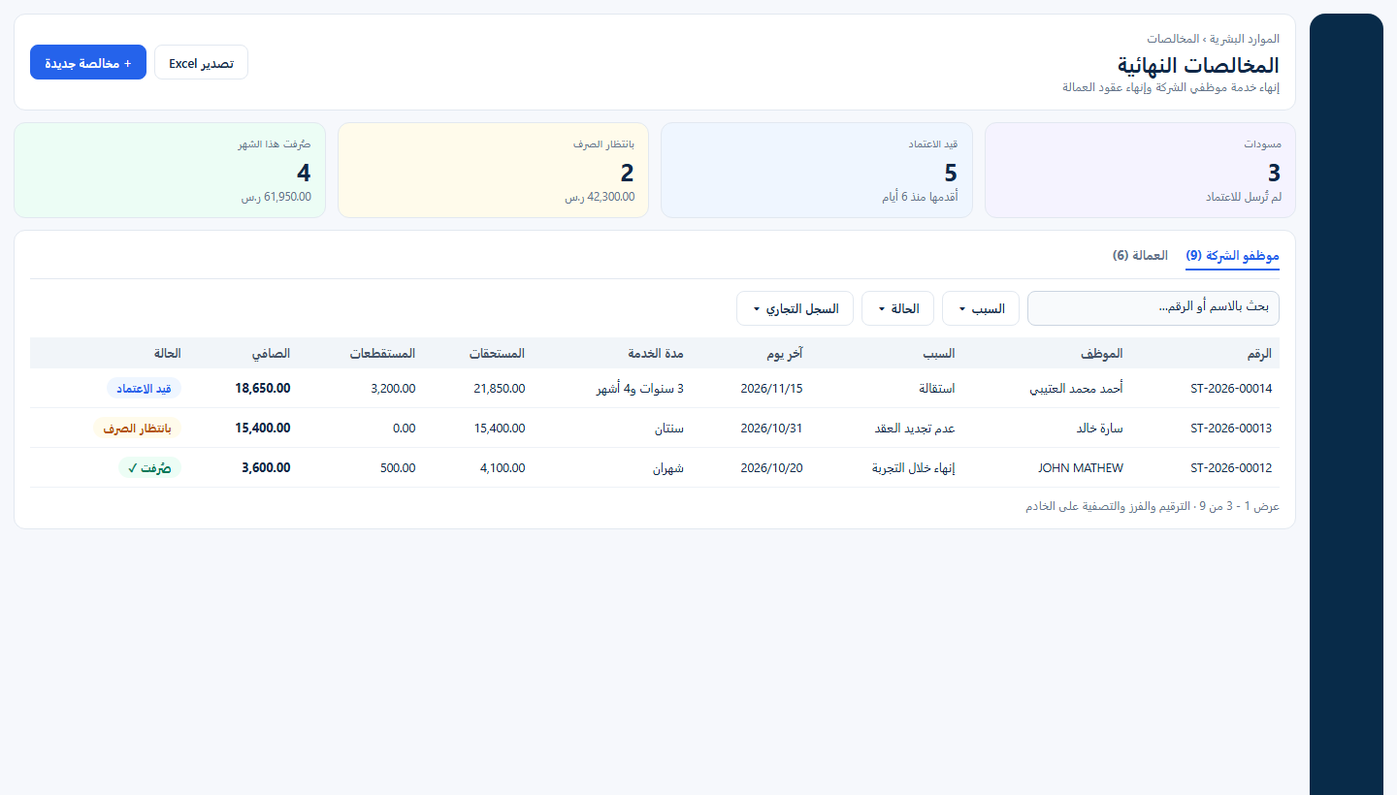
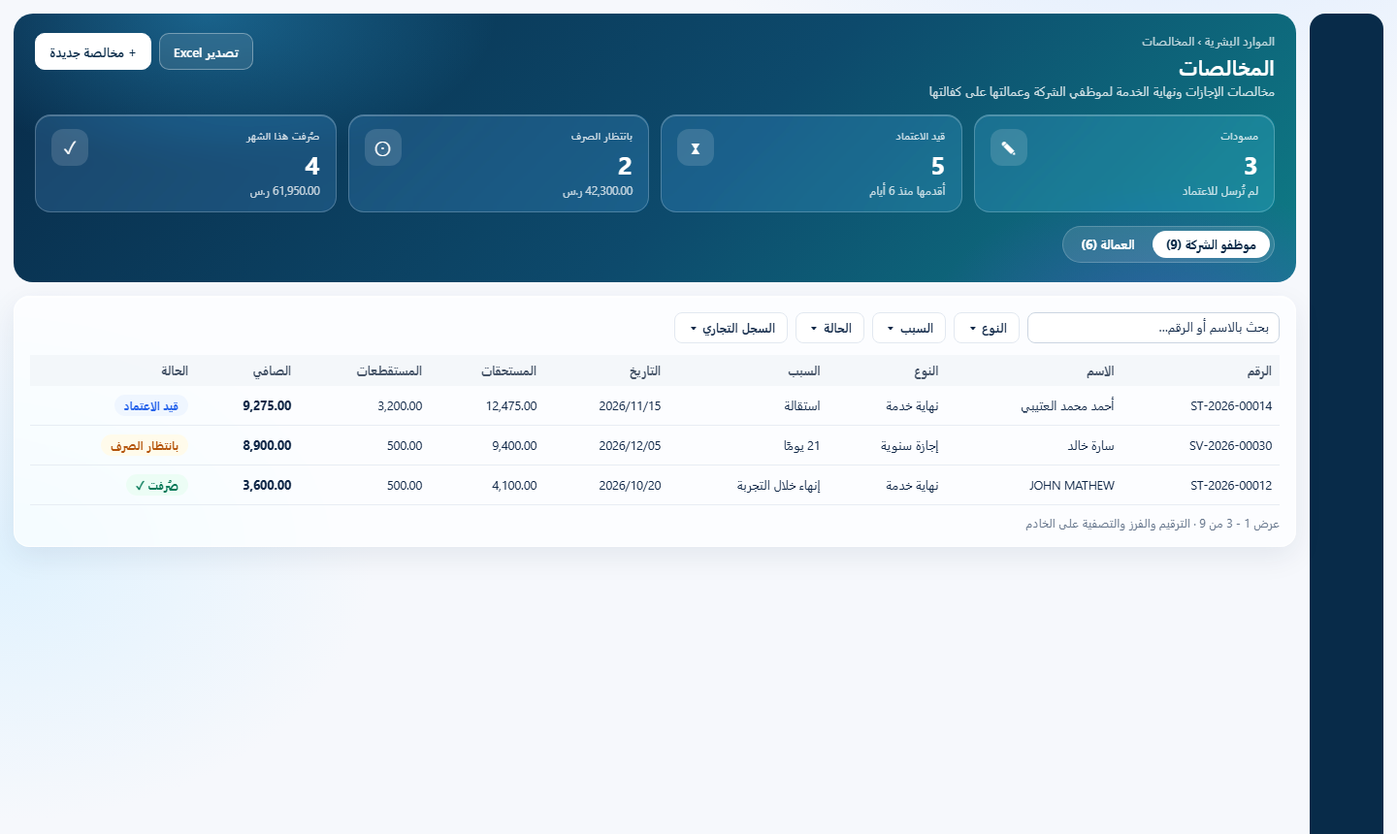
docs(4.11): the settlements plan after the user's decisions — vacation and end-of-service settlements for staff and company-sponsored workers under the Saudi labour law (not the old system's), and glass-card wireframes

diff --git a/docs/03-migration-plan/18-phase-4-11-plan.md b/docs/03-migration-plan/18-phase-4-11-plan.md
@@ -1,109 +1,77 @@
-# المرحلة 4.11: المخالصة النهائية (مقترح، بانتظار الموافقة)
+# المرحلة 4.11: المخالصات (مقترح معدَّل، بانتظار الموافقة)
 
-**من المستخدم (13 §9):** تشمل 4.11 نوعين، لكل منهما مخالصة نهائية:
-- **إنهاء خدمة موظفي الشركة:** مكافأة نهاية الخدمة حسب نظام العمل، ورصيد الإجازات، وراتب الأيام الأخيرة، والسلف والجزاءات المتبقية.
-- **إنهاء عقد العامل:** مستحقاته من آخر تحضير وما بعده، والسلف، وما يخصه من نهاية الخدمة. ويرتبط بإجراءات الخروج في موديول التشغيل.
-
-## 1. ما وجدته (البوابة 1)
-
-**النظام القديم**
-- التصفية جزء من طلب الإجازة (`hr_vicrequest`، شاشة `HR_VacationRequestDetails.aspx`، تبويب «التصفية»).
-- تبويب «التصفية» فيه بطاقتان:
-  - **المستحقات:** أيام الراتب، وقيمة الراتب، وقيمة الإجازة أو نهاية الخدمة، وإضافات أخرى.
-  - **المستقطعات:** السلف، والعُهد، ومستقطعات أخرى.
-  - تحتهما «الإجمالي الصافي» و«طباعة التصفية».
-- طريقة الحساب في `VacationRequestService.cs`:
-  - الراتب = الراتب الشهري ÷ 30 × أيام الراتب؛
-  - الإجازة = الراتب ÷ 30 × أيام الإجازة؛
-  - نهاية الخدمة (للخروج النهائي والاستقالة فقط) = نصف راتب عن كل سنة في السنوات الخمس الأولى، وراتب كامل عن كل سنة بعدها، والسنة 365 يومًا.
-  - في الاستقالة: لا شيء قبل سنتين، والثلث من 2 إلى 5 سنوات، والثلثان من 5 إلى 10، والمكافأة كاملة بعد 10.
-- **الاستخدام الفعلي منذ 2025** (قراءة فقط):
-  - 29 طلب «خروج وعودة» و4 طلبات «خروج نهائي قبل نهاية العقد»، كلها للعمالة؛
-  - لا يوجد أي طلب فيه مبلغ نهاية خدمة.
-  - ⇐ لا توجد بيانات قديمة تحتاج نقلًا. التصميم جديد، ويحافظ على شكل الشاشة القديمة وطريقة حسابها.
-
-**النظام الجديد**
-
-| الموجود | أين |
-|---|---|
-| ملف الموظف وحالته «ترك العمل» (`EndEmployment`) | Staff |
-| إجراءا «إنهاء خلال التجربة» و«عدم التجديد» | Staff |
-| رصيد الإجازة السنوية في تاريخ معيّن (`ILeavePayroll.AnnualAsync`) | Leave |
-| السلف المتبقية (`IStaffDeductions.OutstandingAsync`)، والجزاءات | Deductions |
-| مسيرات رواتب الموظفين (ما صُرف من كل شهر) | Payroll |
-| خروج العامل: نهائي، أو نهاية خدمة، أو نقل كفالة (`WorkerMovement`، ExitKind) | Operations |
-| التحضير المعتمد ومسير العمالة 4.1، والقسيمة | Billing / Payroll |
-| محرك الموافقات وشريط الاعتماد الموحد | Workflow |
+## 1. قرارات المستخدم (21 أكتوبر 2026)
+- **النظام القديم:** تصفيته لم تكن مكتملة، فلا نعتمد عليه. نبني نظامًا جديدًا حسب نظام العمل السعودي.
+- **موظفو الشركة:**
+  1. **الإجازة السنوية:** مخالصة فيها الراتب المستحق الذي لم يُصرف في مسير الرواتب، وبدل الإجازة. ويُخصم منها ما على الموظف: السلف، والخصومات، والجزاءات.
+  2. **إنهاء الخدمة أو الاستقالة:** مخالصة حسب نظام العمل (مكتب العمل).
+- **عمال الشركة:**
+  1. **الإجازة:** مخالصة بالراتب وبدل الإجازة.
+  2. **إنهاء الخدمة أو انتهاء العقد:** تصفية حسب نظام العمل، إذا كان العامل على كفالة الشركة.
+- **التصميم:** هوية واحدة، والكروت زجاجية شفافة مثل كروت السكن. الرأس والمؤشرات على خلفية كحلية متدرجة، والبطاقات زجاج فاتح.
+  - هذا استثناء من قاعدة «لا شريط ملوّن أعلى صفحات الموارد البشرية» في المواصفة 15، بقرار المستخدم.
 
 ## 2. الرسومات
 | الصورة | ما تعرضه |
 |---|---|
-| [wf-settlement-list.png](../02-target-architecture/assets/wf-settlement-list.png) | **قائمة المخالصات:**<br>- أربعة مؤشرات: مسودات، وقيد الاعتماد، وبانتظار الصرف، وصُرفت هذا الشهر.<br>- تبويبان: موظفو الشركة، والعمالة.<br>- بحث وتصفية على الخادم. |
-| [wf-settlement-detail.png](../02-target-architecture/assets/wf-settlement-detail.png) | **المخالصة:**<br>- الرأس والحالة، وشريط الاعتماد الموحد.<br>- المؤشرات: مدة الخدمة، والمستحقات، والمستقطعات، والصافي.<br>- بطاقتا المستحقات والمستقطعات كما في القديم.<br>- «الصافي المستحق».<br>- تفصيل مكافأة نهاية الخدمة سطرًا سطرًا. |
+| [wf-settlement-list.png](../02-target-architecture/assets/wf-settlement-list.png) | **قائمة المخالصات:**<br>- أربعة مؤشرات زجاجية: مسودات، وقيد الاعتماد، وبانتظار الصرف، وصُرفت هذا الشهر.<br>- تبويبان: موظفو الشركة، والعمالة.<br>- تصفية بالنوع (إجازة أو نهاية خدمة)، والسبب، والحالة، والسجل التجاري. |
+| [wf-settlement-final.png](../02-target-architecture/assets/wf-settlement-final.png) | **مخالصة نهاية الخدمة:**<br>- الرأس والمؤشرات زجاجية: مدة الخدمة، والمستحقات، والمستقطعات، والصافي.<br>- شريط الاعتماد الموحد.<br>- بطاقتا المستحقات والمستقطعات، ولكل بند مادته من النظام.<br>- الصافي.<br>- تفصيل المكافأة. |
+| [wf-settlement-vacation.png](../02-target-architecture/assets/wf-settlement-vacation.png) | **مخالصة الإجازة السنوية** (لعامل): أجر أيام العمل غير المصروفة من التحضير المعتمد، وبدل الإجازة، وأقساط السلف. |
 
-## 3. النطاق المقترح
+## 3. القواعد (نظام العمل السعودي)
 
-**4.11أ — مخالصة موظف الشركة**
-- **الإنشاء:** مستند «مخالصة نهائية» (رقمه `ST-{YYYY}-{N:5}`). يُنشأ بطريقتين:
-  - من ملف الموظف بزر «إنهاء الخدمة»؛
-  - أو تلقائيًا كمسودة عند اعتماد «إنهاء خلال التجربة» أو «عدم التجديد».
-- **السبب** يحدد نسبة المكافأة:
-  - انتهاء العقد أو عدم تجديده؛
-  - إنهاء من صاحب العمل؛
-  - استقالة؛
-  - إنهاء خلال التجربة؛
-  - الوفاة أو العجز؛
-  - المادة 80 (بلا مكافأة).
-- **يحسبه الخادم:**
-  - مدة الخدمة: من تاريخ الالتحاق إلى آخر يوم عمل.
-  - الأجر المعتمد للحساب.
-  - راتب الأيام التي لم يغطها مسير صُرف.
-  - بدل رصيد الإجازة = الرصيد × الأجر ÷ 30.
-  - المكافأة بالمادتين 84 و85، وبنسب الاستقالة في القديم.
-  - السلف المتبقية، والجزاءات غير المخصومة.
-- **يدخله المستخدم قبل الإرسال فقط:** إضافات أخرى، والعُهد، ومستقطعات أخرى، والملاحظات. كل تعديل يُسجَّل في سجل التدقيق.
-- **الاعتماد** يمر بمحرك الموافقات: الموارد البشرية، ثم الرواتب، ثم المالية. وتحمي المستندَ نسخةُ السجل ومفتاحُ عدم التكرار.
-- **بعد الاعتماد:**
-  - تتغير حالة الموظف إلى «ترك العمل» من آخر يوم؛
-  - تُقفل السلف المتبقية بأنها «سُددت من المخالصة»؛
-  - لا يدخل الموظف المسيرات اللاحقة.
-- **الصرف:** تأكيد الصرف من المالية بالتاريخ والمرجع. ملف البنك يأتي مع 4.8ب.
-- **الطباعة:** PDF للمخالصة بالعربي، فيه إقرار الاستلام والتوقيع، كـ«طباعة التصفية» في القديم.
-
-**4.11ب — مخالصة العامل (بعد 4.11أ)**
-- تُنشأ من إجراء الخروج في التشغيل (خروج نهائي، أو نهاية خدمة، أو نقل كفالة)، للعمالة على كفالة الشركة فقط.
+**مخالصة الإجازة السنوية** (للموظف وللعامل)
+- **تُنشأ** من طلب الإجازة السنوية المعتمد، وتُصرف قبل بدايتها (المادة 109: أجر الإجازة يُدفع مقدمًا).
 - **المستحقات:**
-  - أيام العمل المعتمدة في التحضير بعد آخر مسير صُرف، حتى آخر يوم عمل؛
-  - بدل رصيد الإجازة؛
-  - مكافأة نهاية الخدمة.
-  - أيام السكن لا تُدفع (قرار 7 في CLAUDE.md).
-- **المستقطعات:** السلف المتبقية، والعُهد، ومستقطعات أخرى.
+  - **الراتب غير المصروف:** من اليوم التالي لآخر مسير صُرف إلى اليوم السابق للإجازة.
+    - للموظف: بالأجر الشهري ÷ 30 لكل يوم.
+    - للعامل: أيام العمل المعتمدة في التحضير فقط. أيام السكن لا تُدفع (القرار 7).
+  - **بدل الإجازة:** أيامها × الأجر ÷ 30، في حدود الرصيد.
+- **المستقطعات:** السلف، والخصومات، والجزاءات غير المخصومة. ومستقطعات أخرى يدخلها المستخدم.
+- **بعد الصرف:** لا تدخل تلك الأيام في مسير الشهر، فلا تُدفع مرتين.
 
-**خارج 4.11:** قيد المحاسبة، ومخصص نهاية الخدمة الشهري، وإنهاء التأمينات (GOSI) في منصتها.
+**مخالصة نهاية الخدمة** (للموظف، وللعامل على كفالة الشركة فقط)
 
-## 4. أسئلة تحتاج قرارك
-1. **أجر الحساب:** على أي أجر تُحسب المكافأة وبدل الإجازة؟
-   - الأساسي مع السكن (الشائع في الممارسة)؛
-   - أو الأساسي مع كل البدلات الثابتة (الأجر الفعلي في المادة 2)؛
-   - أو إجمالي الراتب كما فعل القديم.
-2. **الأسباب ونسبها:** هل القائمة في §3 مناسبة؟ المقترح:
-   - مكافأة كاملة: انتهاء العقد، والإنهاء من صاحب العمل، والوفاة؛
-   - لا شيء: المادة 80، والإنهاء خلال التجربة؛
-   - الاستقالة بالنسب المذكورة.
-3. **مدة الخدمة:** هل تُطرح الإجازات بدون راتب؟ المقترح: ما زاد على 20 يومًا في السنة. وهل تبدأ المدة من تاريخ الالتحاق أم من بداية العقد؟ القديم استخدم بداية العقد.
-4. **رصيد الإجازة:** يُصرف كاملًا في كل الأسباب، أم لا يُصرف في المادة 80؟
-5. **مسار الاعتماد:** الموارد البشرية ثم الرواتب ثم المالية، أم تقترح غيره؟ ومن يؤكد الصرف؟
-6. **العمالة (4.11ب):** هل تُحسب مكافأة نهاية الخدمة لعمالة الشركة فعلًا؟ أم تُصرف مستحقات الأيام والسلف فقط، كما كان العمل في القديم؟
-7. **الترتيب:** 4.11أ أولًا، ثم 4.11ب؟
+| السبب | المكافأة (المادة 84) | ملاحظة |
+|---|---|---|
+| انتهاء العقد أو عدم تجديده | كاملة | |
+| إنهاء من صاحب العمل لغير سبب مشروع | كاملة | يُضاف تعويض المادة 77: أجر 15 يومًا عن كل سنة في العقد غير المحدد المدة، وأجر المدة الباقية في العقد المحدد المدة، وفي الحالتين لا يقل التعويض عن أجر شهرين |
+| استقالة | المادة 85: لا شيء قبل سنتين، والثلث من 2 إلى 5 سنوات، والثلثان من 5 إلى 10، وكاملة بعد 10 | |
+| ترك العمل لقوة قاهرة، أو العاملة خلال 6 أشهر من زواجها أو 3 أشهر من وضعها | كاملة (المادة 87) | |
+| الوفاة أو العجز | كاملة | |
+| الإنهاء خلال فترة التجربة | لا شيء (المادة 54) | |
+| الفصل بالمادة 80 | لا شيء | |
 
-## 5. خطة التنفيذ بعد الموافقة
+- **المكافأة:** أجر نصف شهر عن كل سنة من السنوات الخمس الأولى، وأجر شهر عن كل سنة بعدها. وتُحسب كسور السنة بنسبتها.
+- **مدة الخدمة:** من تاريخ الالتحاق إلى آخر يوم عمل. ولا تُحسب منها أيام الإجازة بدون أجر الزائدة على 20 يومًا في السنة (المادة 116).
+- **بدل رصيد الإجازة غير المستخدم:** يُصرف في كل الأسباب (المادة 111).
+- **الراتب غير المصروف:** بنفس قاعدة مخالصة الإجازة.
+- **المستقطعات:** كل السلف المتبقية، والخصومات والجزاءات غير المخصومة، والعُهد، ومستقطعات أخرى.
+- **بعد الاعتماد:**
+  - الموظف: حالته «ترك العمل» من آخر يوم، وتُقفل سلفه بأنها «سُددت من المخالصة».
+  - العامل: يُربط بإجراء الخروج في التشغيل.
+- **عمالة الموردين:** لا مخالصة لهم عندنا، لأن المورد يدفع لهم.
+
+**مشترك بين النوعين**
+- كل الأرقام يحسبها الخادم. المستخدم يدخل فقط: الإضافات الأخرى، والعُهد، والمستقطعات الأخرى، والملاحظات. ولا يدخلها إلا قبل الإرسال، ويُسجَّل كل تعديل في سجل التدقيق.
+- **الاعتماد** بمحرك الموافقات وشريط الاعتماد الموحد. وتحمي المستندَ نسخةُ السجل ومفتاحُ عدم التكرار.
+- **الصرف:** تأكيد المالية بالتاريخ والمرجع. ملف البنك مع 4.8ب.
+- **الطباعة:** PDF بالعربي فيه إقرار الاستلام.
+- **الترقيم:** مخالصة الإجازة `SV-{YYYY}-{N:5}`، ونهاية الخدمة `ST-{YYYY}-{N:5}`.
+- **الصلاحيات:** `settlements.view`، و`.manage`، و`.approve`، و`.pay`. والرواتب لا تدخل السجلات ولا الروابط.
+
+## 4. أسئلة متبقية
+1. **أجر الحساب:** المادة 84 تحسب المكافأة على «الأجر الأخير»، والمادة 2 تعرّف الأجر الفعلي بأنه الأساسي مع البدلات الثابتة.
+   - المقترح: الأساسي والسكن والنقل وكل بدل ثابت، دون الإضافي والبدلات المتغيرة، للمكافأة وبدل الإجازة معًا. توافق؟
+2. **السلف في مخالصة الإجازة:** يُخصم كل المتبقي من السلفة، أم الأقساط التي تقع في أشهر الإجازة فقط؟ (في نهاية الخدمة يُخصم كل المتبقي).
+3. **مسار الاعتماد:** الموارد البشرية (أو التشغيل للعامل)، ثم الرواتب، ثم المالية، ثم تأكيد الصرف من المالية. توافق؟
+4. **رصيد إجازة العامل:** يؤخذ من ملفه المنقول من النظام القديم (الرصيد المتبقي) حتى تصير إجازات العمالة في النظام الجديد. توافق؟
+
+## 5. الترتيب المقترح
 | الخطوة | المحتوى |
 |---|---|
-| 1 | موديول Settlement داخل Staff (أو موديول مستقل): المستند وحالته، والترقيم، وRLS، والترحيل |
-| 2 | الحاسبة مع اختبارات وحدة: المادتان 84 و85، والاستقالة، والحدود، والإجازات بدون راتب، والأيام غير المصروفة |
-| 3 | نقاط الخادم والصلاحيات: `staff.settlements.view`، و`.manage`، و`.approve`، و`.pay`. والرواتب لا تدخل السجلات ولا الروابط |
-| 4 | الربط بالموافقات وشريط الاعتماد، وتطبيق «ترك العمل» وإقفال السلف بعد الاعتماد |
-| 5 | الواجهة: القائمة والمخالصة، بكل الحالات (تحميل، فارغ، خطأ، بلا صلاحية، بلا نتائج)، والطباعة |
-| 6 | اختبارات التكامل ولقطات الشاشة، ثم مراجعتك |
+| 4.11أ | الحاسبة والمستند والاعتماد والصرف لموظفي الشركة: الإجازة ونهاية الخدمة، مع اختبارات وحدة لكل مادة |
+| 4.11ب | نفس النوعين للعامل على كفالة الشركة: من التحضير المعتمد، وطلب الإجازة، وإجراء الخروج |
+| 4.11ج | الواجهة الزجاجية: القائمة والمخالصة والطباعة، بكل الحالات (تحميل، فارغ، خطأ، بلا صلاحية، بلا نتائج)، ولقطات الشاشة |
 
-**الترحيلات:** جدول المخالصة وسطورها في مخطط Staff.
+**الترحيلات:** موديول Settlements جديد (مخطط `settlement`) فيه المستند وسطوره، مع RLS والترقيم.
